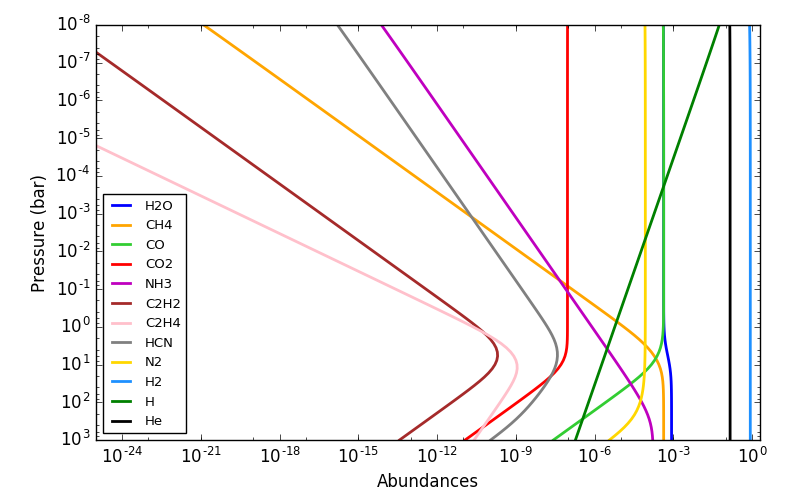
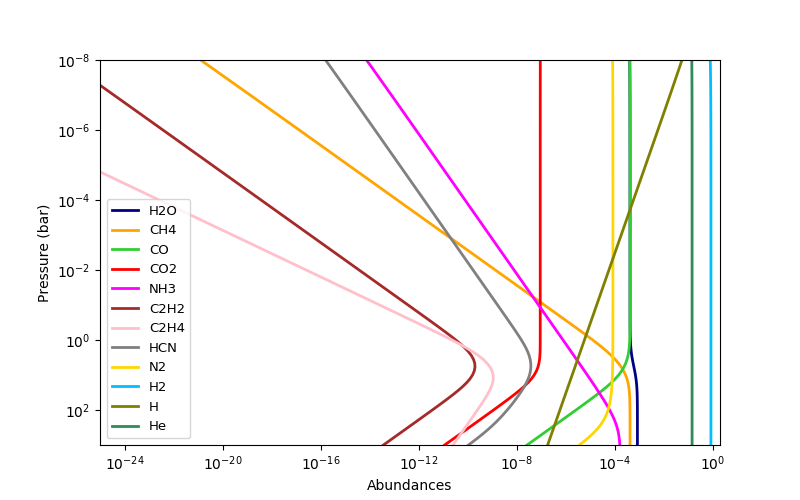
Made the examples in the README more pythonic (and other tweaks).

diff --git a/README.md b/README.md
@@ -51,15 +51,14 @@ temp1 = np.tile(1400.0, nlayers)     # kelvin
 Q1 = r.solve(temp1, press)
 
 # See results:
-label = ["H2O",  "CH4",    "CO",        "CO2",        "NH3", "C2H2",
-         "C2H4", "HCN",    "N2",        "H2",         "H",   "He"]
-col   = ["b",    "orange", "limegreen", "r",          "m",   "brown",
-         "pink", "0.5",    "gold",      "dodgerblue", "g",   "k"]
+labels = r.species
+cols   = ["navy", "orange", "limegreen", "red",         "magenta", "brown",
+          "pink", "0.5",    "gold",      "deepskyblue", "olive",    "seagreen"]
 
 plt.figure(-1, (8,5))
 plt.clf()
-for i in np.arange(len(Q1)):
-  plt.loglog(Q1[i], press, lw=2, c=col[i], label=label[i])
+for q, col, lab in zip(Q1, cols, labels):
+  plt.loglog(q, press, lw=2, color=col, label=lab)
 plt.ylim(np.amax(press), np.amin(press))
 plt.legend(loc="lower left", fontsize=9.5)
 plt.xlim(1e-25, 2)
@@ -86,8 +85,8 @@ ax.set_xticks([900, 1050, 1200, 1350])
 plt.ylabel("Pressure (bar)")
 plt.xlabel("Temperature (K)")
 ax = plt.axes([0.47, 0.12, 0.5, 0.83])
-for i in np.arange(len(Q2)):
-  plt.loglog(Q2[i], press, lw=2, c=col[i], label=label[i])
+for q, col, lab in zip(Q2, cols, labels):
+  plt.loglog(q, press, lw=2, color=col, label=lab)
 plt.ylim(np.amax(press), np.amin(press))
 plt.xlim(1e-20, 2)
 plt.xticks(np.logspace(-18, 0, 7))
@@ -103,8 +102,8 @@ plt.xlabel("Abundances")
 Q3 = r.solve(temp2, press, C=1e-3)
 plt.figure(-3, (8,5))
 plt.clf()
-for i in np.arange(len(Q3)):
-  plt.loglog(Q3[i], press, lw=2, c=col[i], label=label[i])
+for q, col, lab in zip(Q3, cols, labels):
+  plt.loglog(q, press, lw=2, color=col, label=lab)
 plt.ylim(np.amax(press), np.amin(press))
 plt.legend(loc="lower left", fontsize=9.5)
 plt.xlim(1e-18, 2)
@@ -118,9 +117,9 @@ plt.ylabel("Pressure (bar)")
 
 ### Be Kind
 
-Please, be kind and acknowledge the effort of the authors by citing the article asociated to this project:  
+Please, be kind and acknowledge the effort of the authors by citing the article associated to this project:  
 
-  [Cubillos, Blecic, & Dobbs-Dixon (2018): Towards More Reliable Analytic Thermochemical-Equilibrium Abundances](http://adsabs.harvard.edu/abs/Doo-by-doo-by-doo), ApJ XX, YY.  
+  [Cubillos, Blecic, & Dobbs-Dixon (2018): Towards More Reliable Analytic Thermochemical-Equilibrium Abundances](http://adsabs.harvard.edu/abs/Doo-by-doo-by-doo), in prep.  
 
 
 ### License
